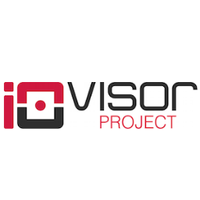
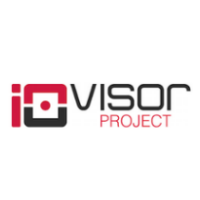
Updated images to make get the right hover border

Changed region(s): [[0.0, 0.39, 0.99, 0.66]]

diff --git a/communities.html b/communities.html
@@ -129,8 +129,8 @@
               
                 <div class="row">
                 <br>
-                <div class="col-md-3"><a href="https://github.com/openstack/"><img class="img-responsive img-center logos-thumbnail" src="img/cncf.jpg" alt="Cloud Native Computing Foundation"></a><h4 class="text-center">Cloud Native Computing Foundation</a></div>
-                <div class="col-md-3"><a href="https://github.com/opendaylight"><img class="img-responsive img-center logos-thumbnail" src="img/iovisor.png" alt="IO Visor Project"></a><h4 class="text-center">IO Visor Project</a></div>
+                <div class="col-md-3"><a href="https://github.com/openstack/"><img class="img-circle img-responsive img-center logos-thumbnail" src="img/CloudNative.png" alt="Cloud Native Computing Foundation"></a><h4 class="text-center">Cloud Native Computing Foundation</a></div>
+                <div class="col-md-3"><a href="https://github.com/opendaylight"><img class="img-circle img-responsive img-center logos-thumbnail" src="img/iovisor.png" alt="IO Visor Project"></a><h4 class="text-center">IO Visor Project</a></div>
                 <div class="col-md-3"><a href="http://www.openkinetic.org"><img class="img-circle img-responsive img-center logos-thumbnail" src="img/kinetic.png" alt="KINETIC"></a><h4 class="text-center">KINETIC</a></div>
                 <div class="col-md-3"><a href="http://www.linuxfoundation.org"><img class="img-circle img-responsive img-center logos-thumbnail" src="img/linux-foundation.jpg" alt="Linux Foundation"></a>
                     <h4 class="text-center">Linux Foundation</a></div> 
@@ -142,7 +142,7 @@
                 <br>
                 <div class="col-md-3"><a href="http://www.opencompute.org"><img class="img-circle img-responsive img-center logos-thumbnail" src="img/opencompute.jpg" alt="Open Compute Project"></a>
                     <h4 class="text-center">Open Compute Project</a></div>
-                <div class="col-md-3"><a href="http://ciscocloud.github.io/shipped/dist/#/"><img class="img-responsive img-center logos-thumbnail" src="img/opencontainer.png" alt="Open Container Initiative"></a>
+                <div class="col-md-3"><a href="http://ciscocloud.github.io/shipped/dist/#/"><img class="img-circle img-responsive img-center logos-thumbnail" src="img/opencontainer.png" alt="Open Container Initiative"></a>
                     <h4 class="text-center">Open Container Initiative</a></div>
                 <div class="col-md-3"><a href="https://github.com/opendaylight"><img class="img-circle img-responsive img-center logos-thumbnail" src="img/ODLL.jpg" alt="OpenDaylight"></a><h4 class="text-center">OpenDaylight</a></div>
                 <div class="col-md-3"><a href="https://github.com/openstack/"><img class="img-circle img-responsive img-center logos-thumbnail" src="img/openstack.png" alt="Openstack"></a><h4 class="text-center">OpenStack</a></div>
@@ -151,7 +151,7 @@
             <!-- Row 3 -->
                 <div class="row">
                 <br>
-                <div class="col-md-3"><a href="http://onosproject.org"><img class="img-responsive img-center logos-thumbnail" src="img/onos.jpg" alt="ONOS"></a><h4 class="text-center">ONOS</a></div>
+                <div class="col-md-3"><a href="http://onosproject.org"><img class="img-circle img-responsive img-center logos-thumbnail" src="img/onos.png" alt="ONOS"></a><h4 class="text-center">ONOS</a></div>
                 <div class="col-md-3"><a href="http://opnfv.org"><img class="img-circle img-responsive img-center logos-thumbnail" src="img/opnfv.png" alt="OPNFV"></a>
                     <h4 class="text-center">OPNFV</a></div>    
                 <div class="col-md-3"><a href="http://www.snort.org"><img class="img-circle img-responsive img-center logos-thumbnail" src="img/snort.gif" alt="Snort"></a><h4 class="text-center">Snort</a></div>
